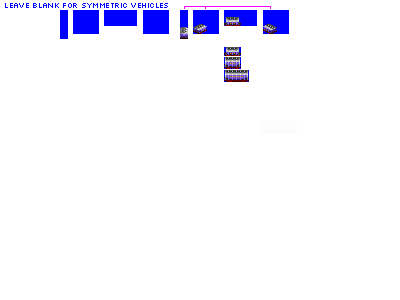
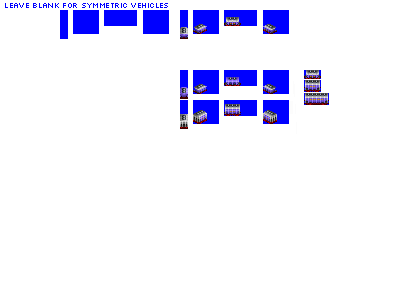
Change: improved sprites complete for 3 more farm product hoppers

diff --git a/src/vehicles/pony/farm_product_hopper_cars_type_1_pony.py b/src/vehicles/pony/farm_product_hopper_cars_type_1_pony.py
@@ -10,7 +10,7 @@ def main(roster_id, **kwargs):
         gen=2,
         subtype="A",
         base_track_type_name="NG",
-        sprites_complete=False,
+        sprites_complete=True,
     )
 
     consist.add_unit(type=FreightCar, chassis="4_axle_ng_16px")
@@ -24,7 +24,7 @@ def main(roster_id, **kwargs):
         gen=3,
         subtype="A",
         base_track_type_name="NG",
-        sprites_complete=False,
+        sprites_complete=True,
     )
 
     consist.add_unit(type=FreightCar, chassis="4_axle_ng_16px")
@@ -36,7 +36,7 @@ def main(roster_id, **kwargs):
         gen=3,
         subtype="B",
         base_track_type_name="NG",
-        sprites_complete=False,
+        sprites_complete=True,
     )
 
     consist.add_unit(type=FreightCar, chassis="4_axle_ng_24px")
